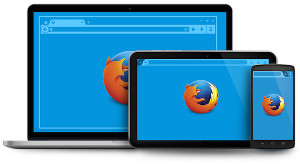
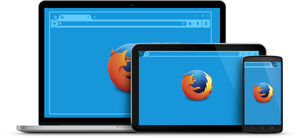
fix(design): update "Choose what to sync" image r=vladikoff
Replace choose what to sync images
More subtle drop shadow.

diff --git a/fxa-content-server/app/styles/modules/_branding.scss b/fxa-content-server/app/styles/modules/_branding.scss
@@ -74,7 +74,7 @@
 }
 
 #choose-what-to-sync-graphic {
-  @include hidpi-background-image('choose_what_to_sync_devices', 200px 110px, 'jpg');
+  @include hidpi-background-image('choose_what_to_sync_devices', 200px 91px, 'jpg');
   background-position: center top;
   background-repeat: no-repeat;
   height: 110px;
@@ -82,9 +82,8 @@
   width: 200px;
 
   @include respond-to('big') {
-    background-size: 300px 165px;
+    background-size: 300px 138px;
     height: 165px;
     width: 300px;
   }
 }
-
